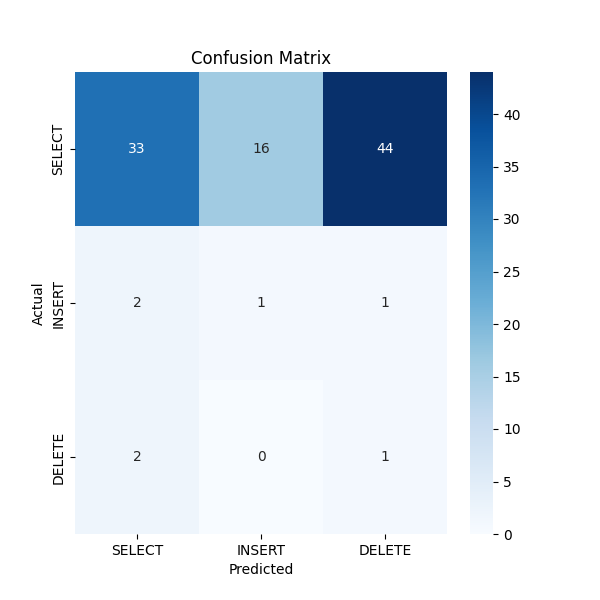
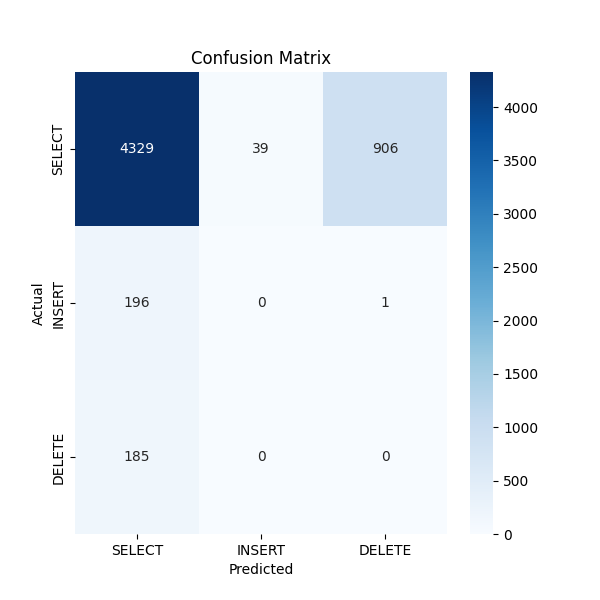
final commit

diff --git a/scripts/evaluate.py b/scripts/evaluate.py
@@ -6,7 +6,7 @@ from torch.utils.data import DataLoader
 from transformers import DistilBertForSequenceClassification, DistilBertTokenizerFast
 import config
 from scripts.dataset import TextToSQLDataset
-from scripts.utils import compute_metrics, plot_confusion_matrix
+from scripts.utils import compute_metrics, plot_confusion_matrix, plot_model_performance
 
 def evaluate(model_path, output_image, model_name):
     print(f"\nEvaluating {model_name} Model...")
@@ -26,9 +26,17 @@ def evaluate(model_path, output_image, model_name):
             preds += outputs.logits.argmax(dim=1).tolist()
             labels += batch['labels'].tolist()
 
-    compute_metrics(labels, preds)
+    accuracy, f1, _ = compute_metrics(labels, preds)
     plot_confusion_matrix(labels, preds, output_image)
 
+    return accuracy, f1
+
 if __name__ == "__main__":
-    evaluate(config.OUTPUT_DIR_BASE, "outputs/confusion_matrix_base.png", "Base")
-    evaluate(config.OUTPUT_DIR_FINETUNED, "outputs/confusion_matrix_finetuned.png", "Fine-tuned")
+    base_metrics = evaluate(config.OUTPUT_DIR_BASE, "outputs/confusion_matrix_base.png", "Base")
+    finetuned_metrics = evaluate(config.OUTPUT_DIR_FINETUNED, "outputs/confusion_matrix_finetuned.png", "Fine-tuned")
+
+    # Plot model performance comparison
+    os.makedirs("outputs", exist_ok=True)
+    plot_model_performance(base_metrics, finetuned_metrics, "outputs/model_performance_comparison.png")
+
+    print("\nEvaluation completed successfully!")

diff --git a/scripts/utils.py b/scripts/utils.py
@@ -24,3 +24,30 @@ def plot_confusion_matrix(labels, preds, output_file):
     plt.title("Confusion Matrix")
     plt.savefig(output_file)
     plt.close()
+
+def plot_model_performance(base_metrics, finetuned_metrics, output_file):
+    base_acc, base_f1 = base_metrics
+    fine_acc, fine_f1 = finetuned_metrics
+
+    labels = ['Base Model', 'Fine-tuned Model']
+    accuracies = [base_acc * 100, fine_acc * 100]
+    f1_scores = [base_f1 * 100, fine_f1 * 100]
+
+    x = range(len(labels))
+    width = 0.35  # width of the bars
+
+    plt.figure(figsize=(8, 6))
+    plt.bar(x, accuracies, width, label='Accuracy')
+    plt.bar([i + width for i in x], f1_scores, width, label='F1 Score')
+
+    plt.xlabel('Model')
+    plt.ylabel('Percentage (%)')
+    plt.title('Model Performance Comparison')
+    plt.xticks([i + width/2 for i in x], labels)
+    plt.legend()
+    plt.ylim(0, 110)
+    plt.grid(axis='y')
+
+    plt.tight_layout()
+    plt.savefig(output_file)
+    plt.close()

diff --git a/config.py b/config.py
@@ -5,7 +5,7 @@ DATASET_NAME = "gretel"
 MODEL_NAME = "distilbert-base-uncased-finetuned-sst-2-english"
 MAX_LENGTH = 64
 BATCH_SIZE = 16
-EPOCHS = 3
+EPOCHS = 2
 LEARNING_RATE = 2e-5
 
 # Data paths (automatically based on DATASET_NAME)
@@ -13,9 +13,13 @@ RAW_DATA_DIR = f"{DATASET_NAME}_dataset"
 FILTERED_DATA_DIR = f"data/{DATASET_NAME}_filtered"
 SMALL_DATA_DIR = f"data/{DATASET_NAME}_filtered_small"
 
-# Files
-TRAIN_FILE = f"{SMALL_DATA_DIR}/train_{DATASET_NAME}_filtered_small.json"
-VAL_FILE = f"{SMALL_DATA_DIR}/test_{DATASET_NAME}_filtered_small.json"
+# Files (small )
+#TRAIN_FILE = f"{SMALL_DATA_DIR}/train_{DATASET_NAME}_filtered_small.json"
+#VAL_FILE = f"{SMALL_DATA_DIR}/test_{DATASET_NAME}_filtered_small.json"
+
+#Files (large)
+TRAIN_FILE = f"{FILTERED_DATA_DIR}/train_{DATASET_NAME}_filtered.json"
+VAL_FILE = f"{FILTERED_DATA_DIR}/test_{DATASET_NAME}_filtered.json"
 
 # Labels/Templates (you can update later)
 LABEL_TO_TEMPLATE = {

diff --git a/scripts/train.py b/scripts/train.py
@@ -11,13 +11,12 @@ from scripts.dataset import TextToSQLDataset
 
 def train():
     tokenizer = DistilBertTokenizerFast.from_pretrained(config.MODEL_NAME)
-    model = DistilBertForSequenceClassification.from_pretrained(config.MODEL_NAME, num_labels=config.NUM_LABELS, ignore_mismatched_sizes=True)
+    model = DistilBertForSequenceClassification.from_pretrained(
+        config.MODEL_NAME, num_labels=config.NUM_LABELS, ignore_mismatched_sizes=True,
+    dropout=0.3, attention_dropout=0.2)
 
     train_dataset = TextToSQLDataset(config.TRAIN_FILE, tokenizer)
-   # val_dataset = TextToSQLDataset(config.VAL_FILE, tokenizer)
-
     train_loader = DataLoader(train_dataset, batch_size=config.BATCH_SIZE, shuffle=True)
-   # val_loader = DataLoader(val_dataset, batch_size=config.BATCH_SIZE)
 
     optimizer = AdamW(model.parameters(), lr=config.LEARNING_RATE)
 

diff --git a/scripts/create_small_subset.py b/scripts/create_small_subset.py
@@ -20,9 +20,9 @@ def create_small_subset():
     delete_examples = [ex for ex in train_data if ex['sql'].lower().startswith("delete from")]
 
     # Sample
-    small_train_select = random.sample(select_examples, min(300, len(select_examples)))
-    small_train_insert = random.choices(insert_examples, k=50) if len(insert_examples) > 0 else []
-    small_train_delete = random.choices(delete_examples, k=50) if len(delete_examples) > 0 else []
+    small_train_select = random.sample(select_examples, min(380, len(select_examples)))
+    small_train_insert = random.choices(insert_examples, k=10) if len(insert_examples) > 0 else []
+    small_train_delete = random.choices(delete_examples, k=10) if len(delete_examples) > 0 else []
 
     small_train = small_train_select + small_train_insert + small_train_delete
     random.shuffle(small_train)
